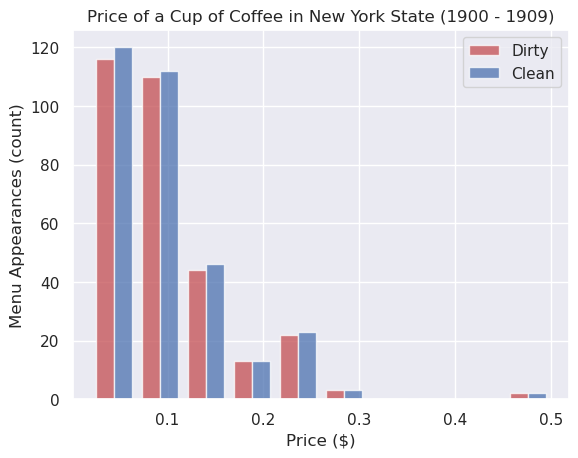
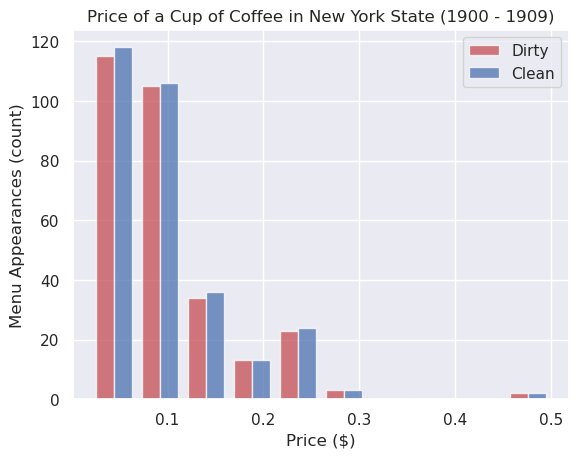
Tune coffee regex

diff --git a/src/regex.py b/src/regex.py
@@ -1,4 +1,4 @@
 is_new_york = r"(?i).*\b(?:new york|new yorkers?|N\.?Y\.?C?\.?)\b.*"
 is_1900_to_1909 = r"^190[0-9].*"
 is_dollars = r"(?i)^dollars$"
-is_cup_of_coffee = r"(?i)(?:^(?=.*\bcoffee\b)(?=.*\bcup\b).*)|(?:^coffee$)"
+is_cup_of_coffee = r"(?i)(?:^coffee$)|(?:^black coffee$)|(?:^(?=.*\bcoffee\b)(?=.*\b(?:cup|mug|glass|demi[- ]tasse|goblet)\b)(?!.*\b(?:pot|pitcher|jug|pound|lb|machine|for two|all you)\b)(?!.*\b(?:iced?|cream|milk|cocktail)\b).*)"
